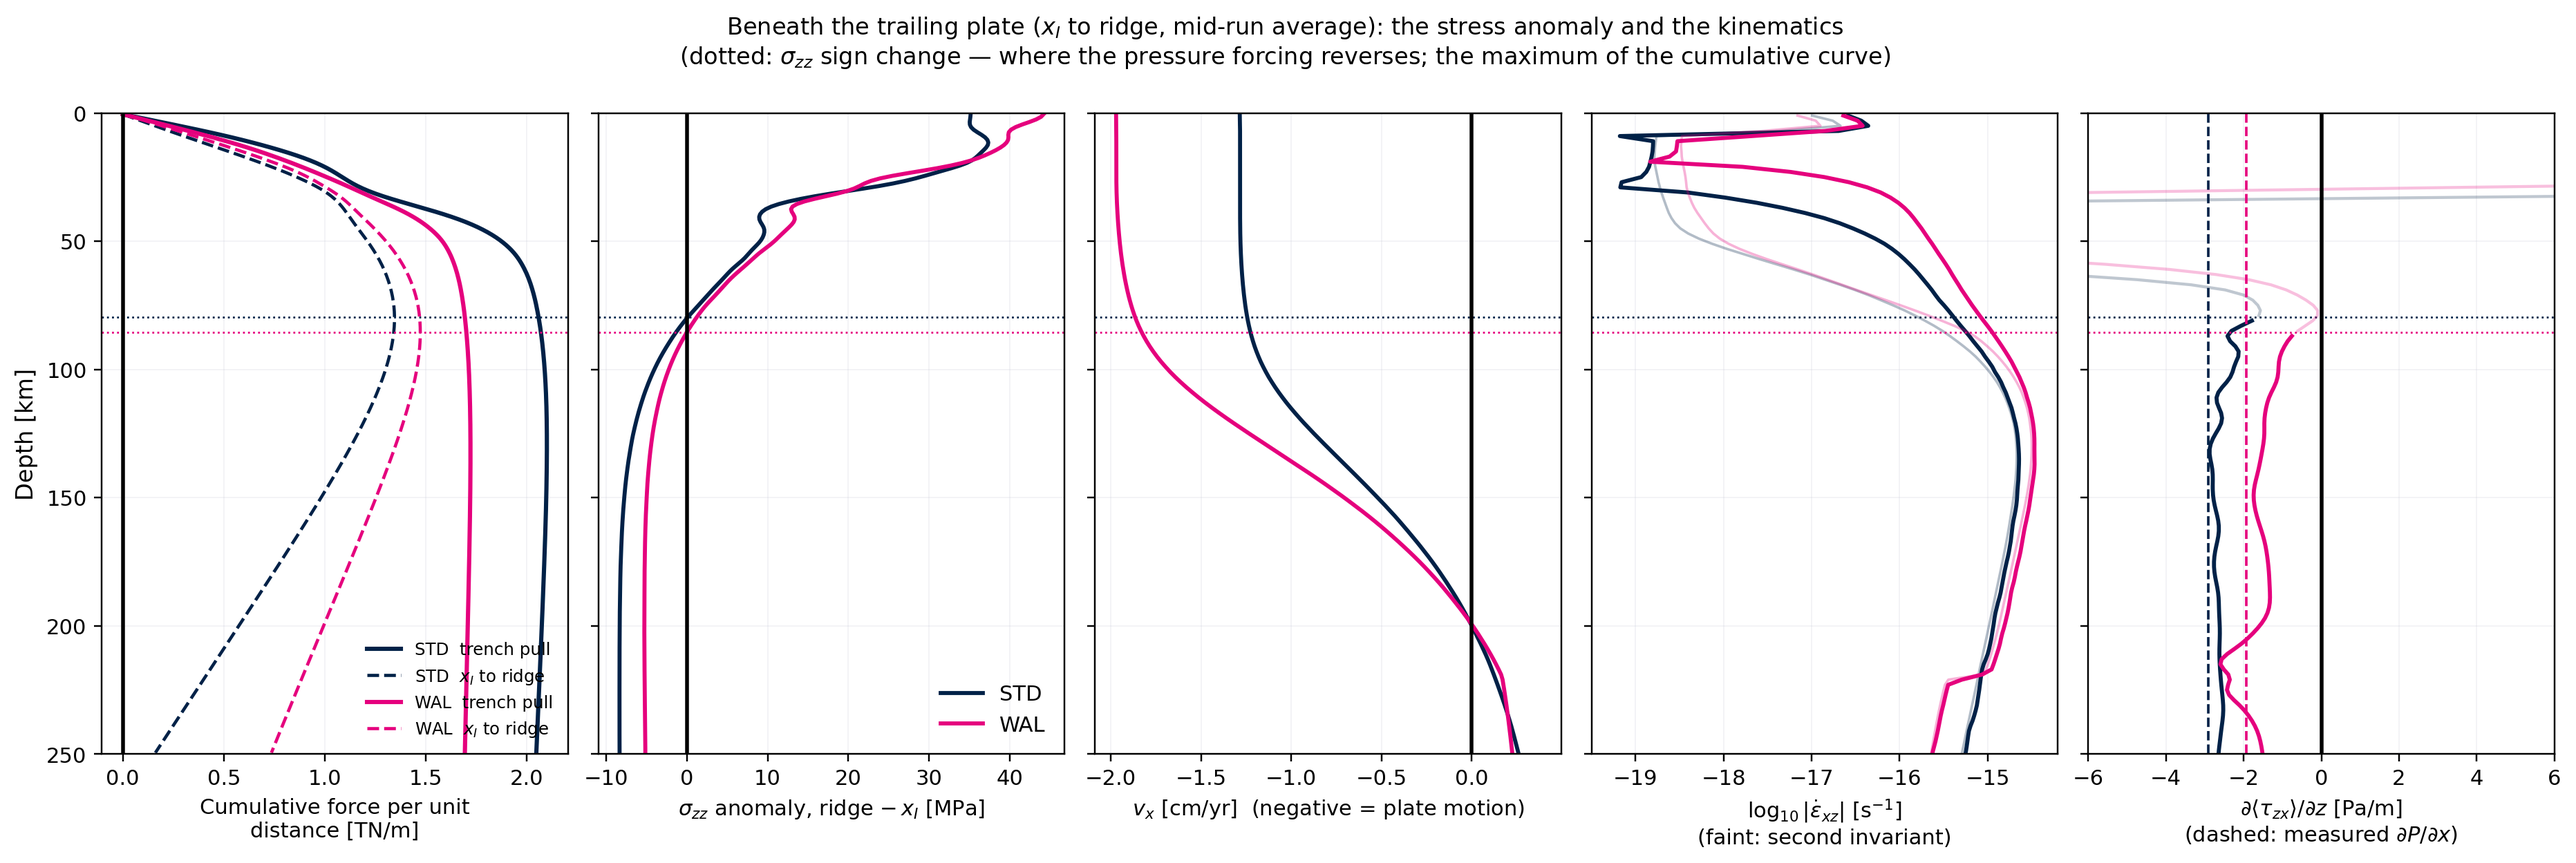
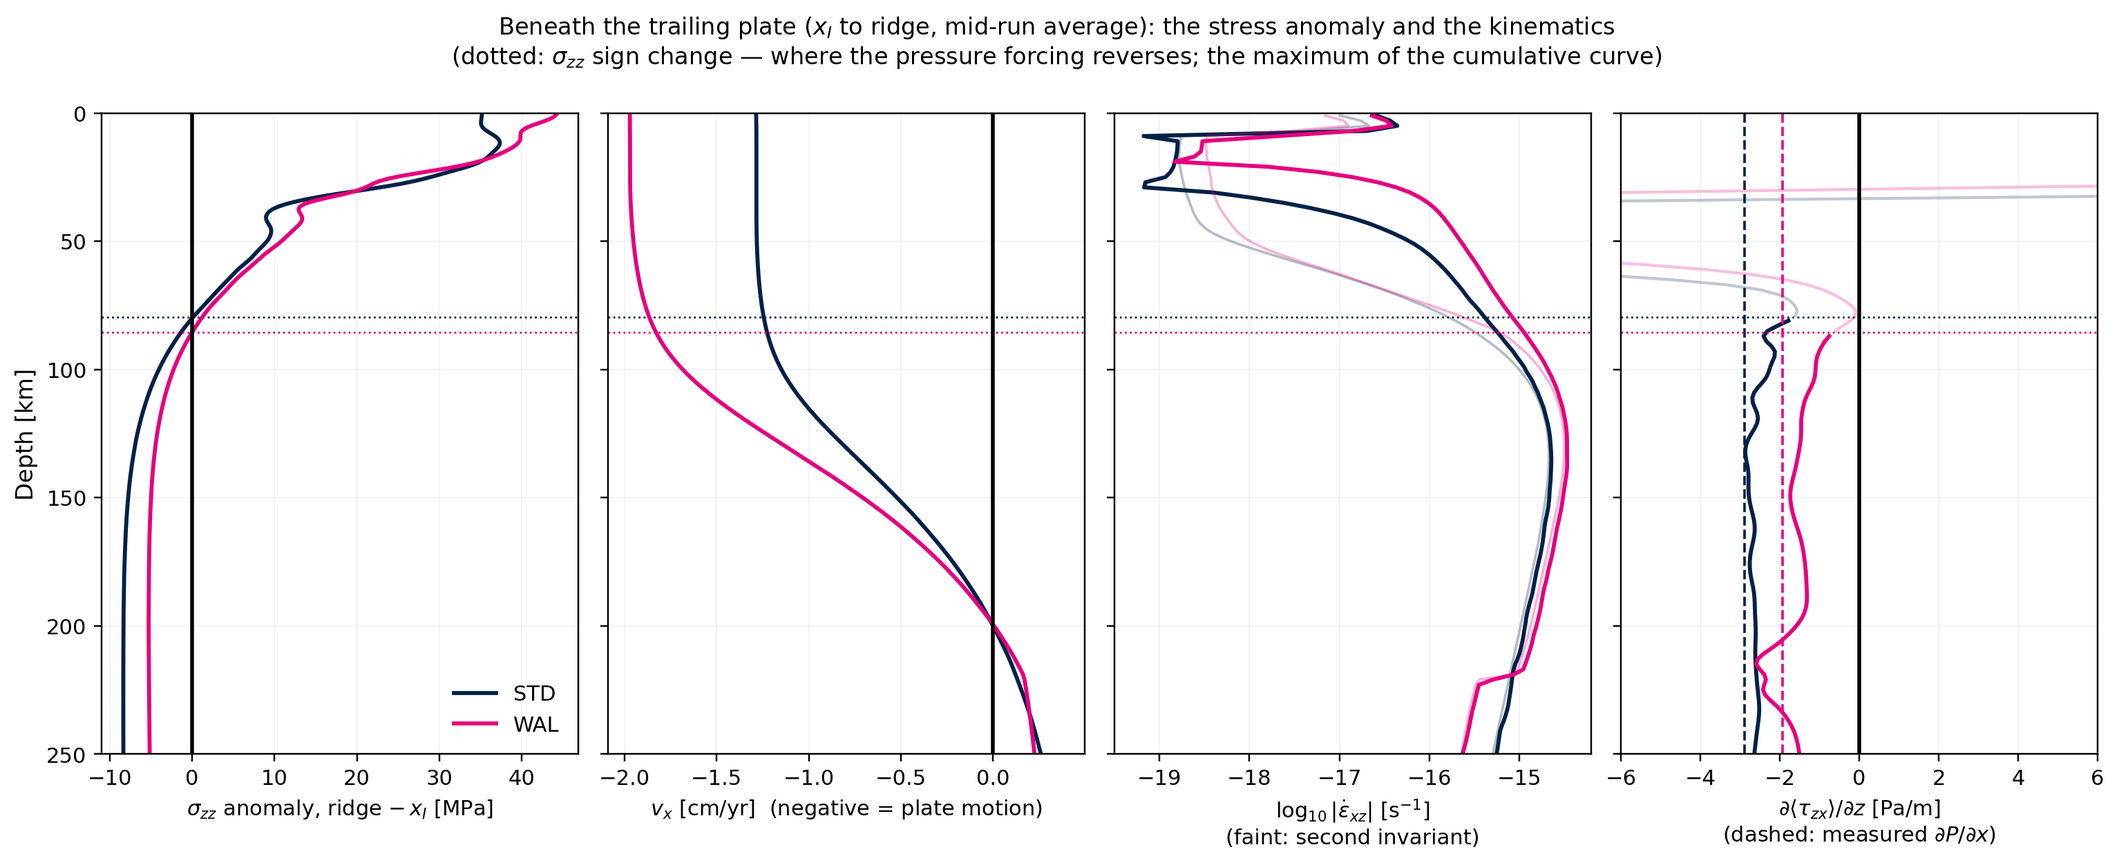
fig_lab_kinematics: revert to four panels
The cumulative-integral panel duplicated fig_force_vs_depth (Dan's
correction, 2026-09-16). Back to: sigma_zz anomaly | absolute v_x |
shear strain rate | d<tau_zx>/dz. The reworded titles ('where the
pressure forcing reverses') and the d2v/dz2 diagnostic are kept.

diff --git a/scripts/fig_lab_kinematics.py b/scripts/fig_lab_kinematics.py
@@ -5,13 +5,9 @@ column_profiles_deep.npz (the ridge-minus-x_I stress anomaly) and
 lab_kinematics.npz (velocity, strain rate and shear stress averaged
 across the trailing plate, x_I to the ridge). Build both first.
 
-Five panels, mid-run average (36–44 Myr), models overlaid in the brand
-colours per FIGURE_STYLE.md:
-  0. CUMULATIVE trench pull and x_I-to-ridge integrals vs depth (Dan,
-     2026-09-16): the force criterion made visible beside the kinematics
-     it is tested against — the x_I-to-ridge curve MAXIMISES exactly at
-     the sign change of its integrand (panel 1), which is the rule the
-     paper adopts; the trench pull is convergent by ~60 km
+Four panels, mid-run average (36–44 Myr), models overlaid in the brand
+colours per FIGURE_STYLE.md (the cumulative force integrals live in
+fig_force_vs_depth — not duplicated here):
   1. sigma_zz anomaly (ridge − x_I), pressure register — the zero
      crossing (dotted) is where the pressure forcing REVERSES direction
   2. ABSOLUTE horizontal velocity v_x about a bold zero line, so both
@@ -79,7 +75,7 @@ def crossing_depth(p_r, zkm, zmin_km=20.0):
 def main():
     d, k = cpc.load(), lkc.load()
     zk = k['z'] / 1e3
-    fig, axes = plt.subplots(1, 5, figsize=(17, 5.8), sharey=True)
+    fig, axes = plt.subplots(1, 4, figsize=(14, 5.8), sharey=True)
     for key in ('STD', 'WAL'):
         col = C[key]
         c = cpc.derive(d, key)
@@ -101,26 +97,18 @@ def main():
         dtxz = np.gradient(txz, k['z'])                                 # Pa/m
         dPdx = c['dP'][m].mean() / span                                 # Pa/m, measured
 
-        # cumulative force integrals (panel 0) — the force criterion
-        zc_m = c['z']
-        cum = lambda a: np.concatenate([[0.0], np.cumsum(0.5 * (a[1:] + a[:-1]) * np.diff(zc_m))])
-        p_t = gaussian_filter1d(c['p_T'][m].mean(axis=0), 2)
-        TP = -cum(p_t) / 1e12
-        RP = cum(p_r * 1e6) / 1e12
-        axes[0].plot(TP, zp, color=col, lw=2.0, label=f'{key}  trench pull')
-        axes[0].plot(RP, zp, color=col, lw=1.5, ls='--', label=f'{key}  $x_I$ to ridge')
-        axes[1].plot(p_r, zp, color=col, lw=1.9, label=key)
-        axes[2].plot(vx, zk, color=col, lw=1.9, label=key)
+        axes[0].plot(p_r, zp, color=col, lw=1.9, label=key)
+        axes[1].plot(vx, zk, color=col, lw=1.9, label=key)
         # shear strain rate from the velocity gradient; invariant for comparison
         vx_ms = vx * 1e-2 / 3.15576e7                                   # cm/yr -> m/s
         exz = np.abs(np.gradient(vx_ms, k['z'])) / 2.0                  # 1/s
         log_exz = np.log10(np.clip(exz, 1e-22, None))
-        axes[3].plot(eii, zk, color=col, lw=1.2, alpha=0.30)
-        axes[3].plot(log_exz, zk, color=col, lw=1.9)
+        axes[2].plot(eii, zk, color=col, lw=1.2, alpha=0.30)
+        axes[2].plot(log_exz, zk, color=col, lw=1.9)
         above = zk <= z_cross
-        axes[4].plot(dtxz[above], zk[above], color=col, lw=1.4, alpha=0.25)
-        axes[4].plot(dtxz[~above], zk[~above], color=col, lw=1.9)
-        axes[4].axvline(dPdx, color=col, lw=1.2, ls='--')
+        axes[3].plot(dtxz[above], zk[above], color=col, lw=1.4, alpha=0.25)
+        axes[3].plot(dtxz[~above], zk[~above], color=col, lw=1.9)
+        axes[3].axvline(dPdx, color=col, lw=1.2, ls='--')
         d2v = np.gradient(np.gradient(vx_ms, k['z']), k['z'])
         w2 = (zk > 30) & (zk < 200)
         print(f'   d2v/dz2 peak at {zk[w2][int(np.argmax(np.abs(d2v[w2])))]:.0f} km '
@@ -137,8 +125,7 @@ def main():
         print(f'   d<tau_zx>/dz (120–220 km) {dtxz[ch].mean():+.2f} Pa/m vs measured dP/dx '
               f'{dPdx:+.2f} Pa/m  -> ratio {dtxz[ch].mean() / dPdx:.2f}')
 
-    for ax, lab in zip(axes, ['Cumulative force per unit\ndistance [TN/m]',
-                              r'$\sigma_{zz}$ anomaly, ridge $-\,x_I$ [MPa]',
+    for ax, lab in zip(axes, [r'$\sigma_{zz}$ anomaly, ridge $-\,x_I$ [MPa]',
                               r'$v_x$ [cm/yr]  (negative = plate motion)',
                               r'$\log_{10}|\dot\varepsilon_{xz}|$ [s$^{-1}$]'
                               '\n(faint: second invariant)',
@@ -148,14 +135,13 @@ def main():
         ax.grid(alpha=0.2, color=C_RULE, lw=0.6)
     # bold zero lines — but NOT on the strain-rate panel (its structure
     # lives far from zero; including the axis squashes it)
-    for ax in (axes[0], axes[1], axes[2], axes[4]):
+    for ax in (axes[0], axes[1], axes[3]):
         ax.axvline(0, color='k', lw=1.8)
-    axes[3].set_xlim(-19.5, -14.2)
-    axes[4].set_xlim(-6, 6)
-    axes[0].legend(frameon=False, fontsize=8, loc='lower right')
+    axes[2].set_xlim(-19.5, -14.2)
+    axes[3].set_xlim(-6, 6)
     axes[0].set_ylabel('Depth [km]', fontsize=11)
     axes[0].set_ylim(250, 0)
-    axes[1].legend(frameon=False, fontsize=10)
+    axes[0].legend(frameon=False, fontsize=10)
     fig.suptitle('Beneath the trailing plate ($x_I$ to ridge, mid-run average): '
                  'the stress anomaly and the kinematics\n'
                  '(dotted: $\\sigma_{zz}$ sign change — where the pressure forcing '
